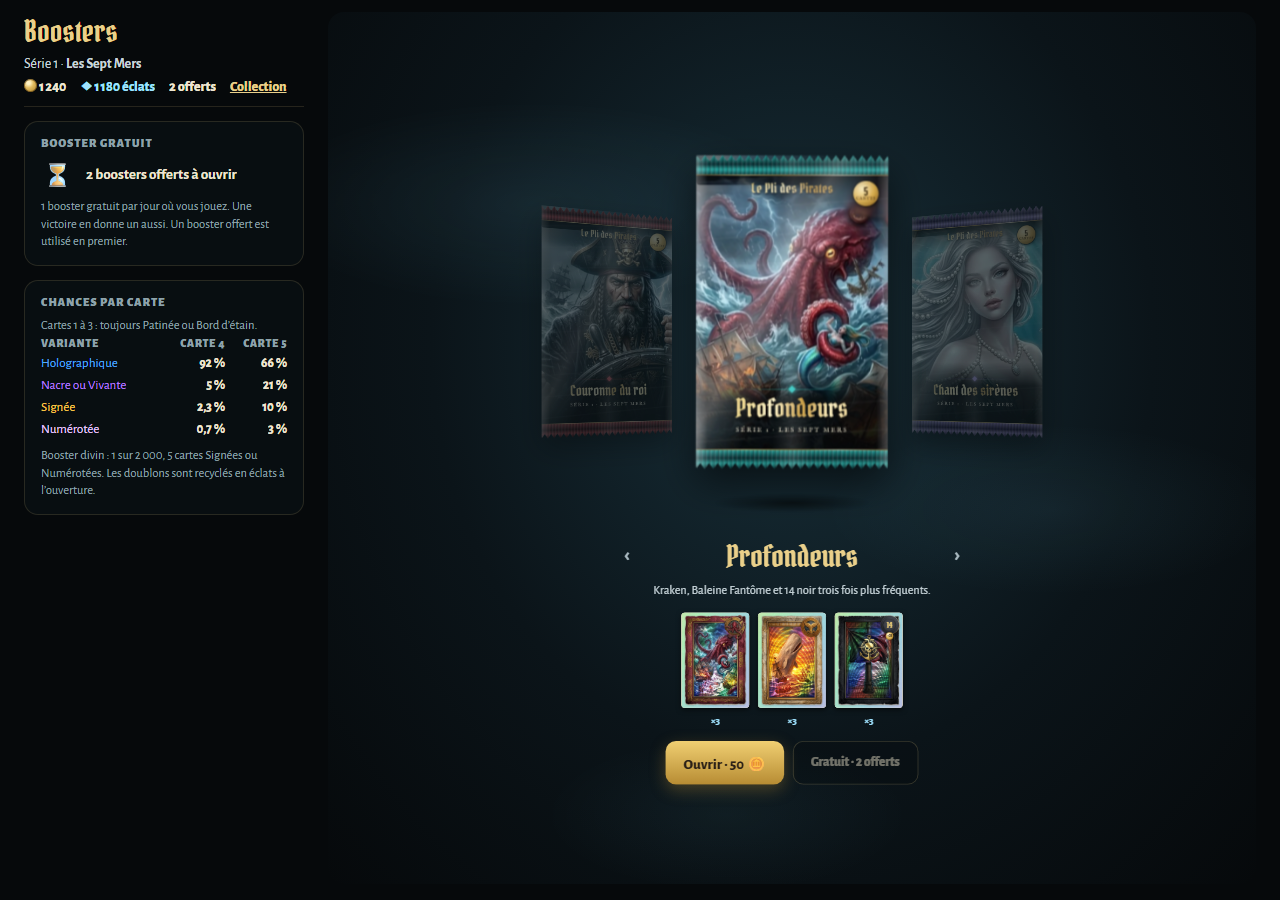
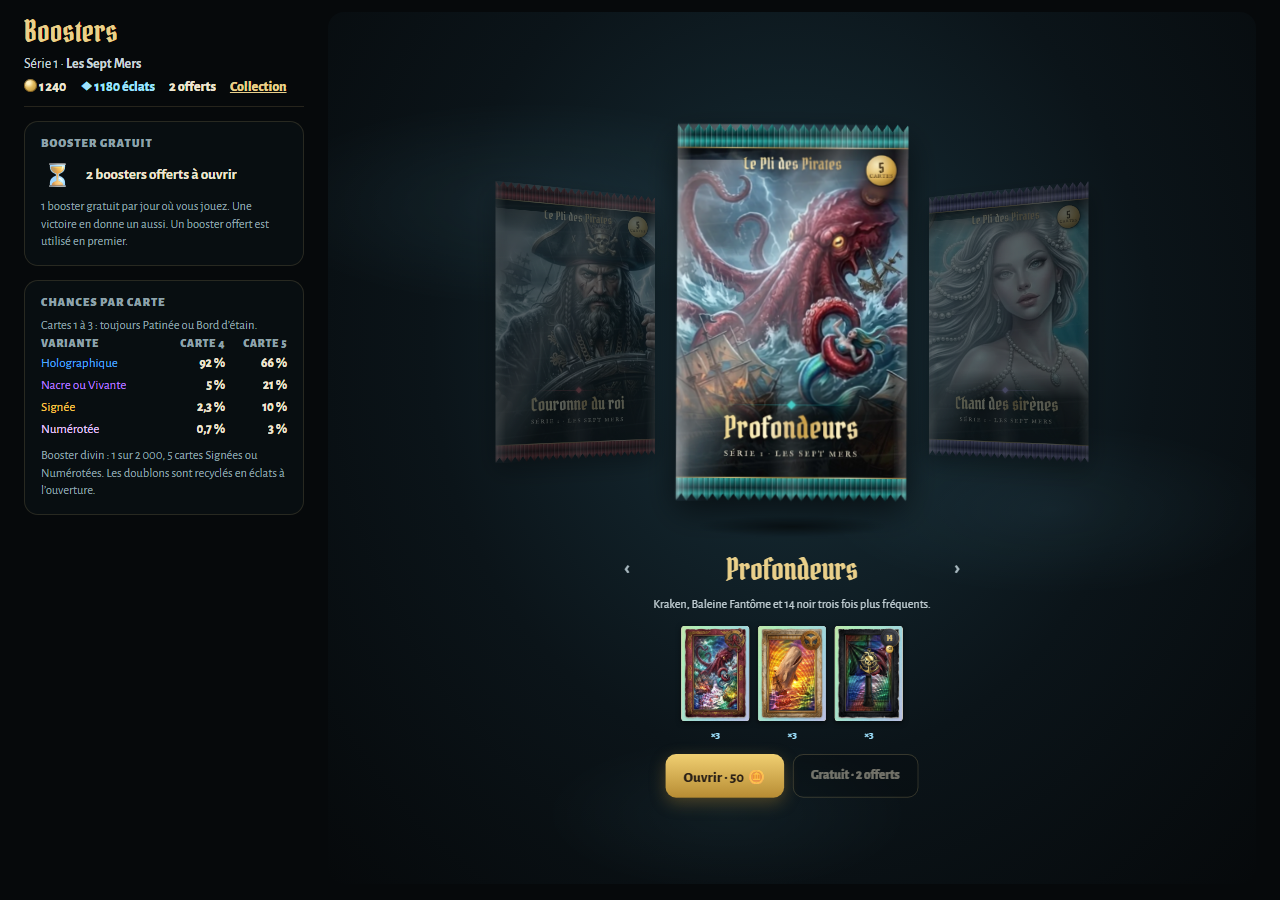
Boosters : sachets 20 % plus grands au choix, nets à l'ouverture, flash sur toute la zone
- le sachet a sa taille d'ouverture (322 × 527) et il est réduit au choix (0,82) au lieu d'être agrandi à 1,22 à la coupe : une couche 3D agrandie reste calculée à sa taille d'origine, d'où le flou
- choix : sachet 264 px au lieu de 220 (+20 %), voisins écartés de 280 px, ombre et interface du choix descendues
- outils de coupe (pointillés, lueur, étincelle, ciseaux, zone de glisser) en proportions du sachet ; progression mesurée sur le sachet
- flash d'ouverture sur toute la zone du composant (il ne couvrait que la scène : rectangle blanc sur écran large)

Changed region(s): [[0.375, 0.1244, 0.875, 0.56], [0.5, 0.5911, 0.7188, 0.9022]]

diff --git a/web/src/booster/booster-opening.js b/web/src/booster/booster-opening.js
@@ -28,29 +28,30 @@ button{font-family:inherit}
 .btn.ghost{border-color:transparent;background:transparent;color:#a8b8bf}
 .btn[disabled]{opacity:.45;cursor:default}
 .car{position:absolute;left:0;top:0;width:680px;height:620px;perspective:1100px;z-index:5}
-.pw{position:absolute;left:230px;top:70px;width:220px;height:360px;transition:transform .55s cubic-bezier(.3,1.1,.4,1),opacity .4s,filter .4s;transform-style:preserve-3d;cursor:pointer}
+/* sachet à sa taille d'ouverture (322 × 527), réduit au choix : jamais agrandi, donc toujours net (intégration au jeu) */
+.pw{position:absolute;left:179px;top:-13.5px;width:322px;height:527px;transition:transform .55s cubic-bezier(.3,1.1,.4,1),opacity .4s,filter .4s;transform-style:preserve-3d;cursor:pointer}
 .pw.off{pointer-events:none}
 .in{position:absolute;inset:0}
 .pbody,.lid{position:absolute;left:0;right:0;top:0;background-size:100% 100%;background-repeat:no-repeat;border-radius:4px}
 .pbody{bottom:0;filter:drop-shadow(0 18px 24px rgba(0,0,0,.6))}
-.lid{height:34px;z-index:2}
+.lid{height:9.44%;z-index:2}
 .foil{position:absolute;inset:0;background:linear-gradient(115deg,transparent 30%,rgba(255,255,255,.35) 45%,rgba(160,220,255,.25) 50%,transparent 65%);background-size:250% 100%;animation:foil 3.4s ease-in-out infinite;mix-blend-mode:screen;pointer-events:none}
 @keyframes foil{0%{background-position:130% 0}70%,100%{background-position:-60% 0}}
 .float{animation:fl 3.2s ease-in-out infinite}
 @keyframes fl{0%,100%{translate:0 0;rotate:-1deg}50%{translate:0 -10px;rotate:1deg}}
-.shadow{position:absolute;left:250px;top:452px;width:180px;height:22px;border-radius:50%;background:radial-gradient(rgba(0,0,0,.55),transparent 70%);transition:opacity .4s}
-.cutzone{position:absolute;left:-30px;right:-30px;top:-22px;height:80px;cursor:crosshair;touch-action:none;z-index:4}
-.dots{position:absolute;left:10px;right:10px;top:33px;border-top:2px dashed rgba(255,244,214,.85);filter:drop-shadow(0 0 3px rgba(0,0,0,.8));z-index:3}
-.cutline{position:absolute;left:0;top:31px;width:220px;height:5px;border-radius:3px;background:linear-gradient(90deg,rgba(255,255,255,.2),#fff);box-shadow:0 0 12px 3px #fff6c9,0 0 30px 6px #ffd36e;transform-origin:0 50%;transform:scaleX(var(--cut,0));z-index:3}
-.tip{position:absolute;top:22px;left:calc(var(--cut,0) * 220px);width:22px;height:22px;margin-left:-11px;border-radius:50%;background:radial-gradient(circle,#fff,rgba(255,240,190,.7) 40%,transparent 70%);animation:tw .25s linear infinite alternate;z-index:3;display:none}
+.shadow{position:absolute;left:232px;top:478px;width:216px;height:24px;border-radius:50%;background:radial-gradient(rgba(0,0,0,.55),transparent 70%);transition:opacity .4s}
+.cutzone{position:absolute;left:-44px;right:-44px;top:calc(9.44% - 82px);height:117px;cursor:crosshair;touch-action:none;z-index:4}
+.dots{position:absolute;left:15px;right:15px;top:calc(9.44% - 1.5px);border-top:2px dashed rgba(255,244,214,.85);filter:drop-shadow(0 0 3px rgba(0,0,0,.8));z-index:3}
+.cutline{position:absolute;left:0;top:calc(9.44% - 4.5px);width:100%;height:7px;border-radius:3px;background:linear-gradient(90deg,rgba(255,255,255,.2),#fff);box-shadow:0 0 12px 3px #fff6c9,0 0 30px 6px #ffd36e;transform-origin:0 50%;transform:scaleX(var(--cut,0));z-index:3}
+.tip{position:absolute;top:calc(9.44% - 17.5px);left:calc(var(--cut,0) * 100%);width:32px;height:32px;margin-left:-16px;border-radius:50%;background:radial-gradient(circle,#fff,rgba(255,240,190,.7) 40%,transparent 70%);animation:tw .25s linear infinite alternate;z-index:3;display:none}
 .cutting .tip{display:block}
 @keyframes tw{to{transform:scale(1.4)}}
-.runner{position:absolute;top:24px;left:10px;width:46px;height:18px;margin-left:-23px;border-radius:50%;background:radial-gradient(ellipse,#fff 0,rgba(255,236,170,.9) 25%,rgba(255,210,110,.35) 55%,transparent 72%);mix-blend-mode:screen;pointer-events:none;animation:run 2s cubic-bezier(.5,0,.5,1) infinite;z-index:3}
-@keyframes run{0%{left:10px;opacity:0}12%{opacity:1}80%{left:210px;opacity:1}100%{left:210px;opacity:0}}
-.chev{position:absolute;right:-30px;top:16px;font:900 22px/1 system-ui;letter-spacing:-2px;color:#ffe9b0;text-shadow:0 0 8px rgba(255,210,110,.9);animation:chv 1s ease-in-out infinite alternate;pointer-events:none;z-index:3}
+.runner{position:absolute;top:calc(9.44% - 14.5px);left:4.5%;width:67px;height:26px;margin-left:-33px;border-radius:50%;background:radial-gradient(ellipse,#fff 0,rgba(255,236,170,.9) 25%,rgba(255,210,110,.35) 55%,transparent 72%);mix-blend-mode:screen;pointer-events:none;animation:run 2s cubic-bezier(.5,0,.5,1) infinite;z-index:3}
+@keyframes run{0%{left:4.5%;opacity:0}12%{opacity:1}80%{left:95.5%;opacity:1}100%{left:95.5%;opacity:0}}
+.chev{position:absolute;right:-44px;top:calc(9.44% - 26px);font:900 32px/1 system-ui;letter-spacing:-2px;color:#ffe9b0;text-shadow:0 0 8px rgba(255,210,110,.9);animation:chv 1s ease-in-out infinite alternate;pointer-events:none;z-index:3}
 @keyframes chv{from{opacity:.35;transform:translateX(-4px)}to{opacity:1;transform:translateX(3px)}}
 .touched .runner,.touched .chev{display:none}
-.scis{position:absolute;left:-26px;top:20px;font-size:22px;color:#fff4d6;filter:drop-shadow(0 1px 2px #000);z-index:3}
+.scis{position:absolute;left:-38px;top:calc(9.44% - 20px);font-size:32px;color:#fff4d6;filter:drop-shadow(0 1px 2px #000);z-index:3}
 .opening .lid{animation:lidoff .55s cubic-bezier(.4,0,.8,.6) forwards}
 @keyframes lidoff{to{transform:translate(260px,-180px) rotate(38deg);opacity:0}}
 .opening .pbody{clip-path:polygon(0% 9.4%,4.5% 9.1%,9.1% 9.8%,13.6% 9.2%,18.2% 9.7%,22.7% 9.0%,27.3% 9.6%,31.8% 9.3%,36.4% 9.9%,40.9% 9.1%,45.5% 9.6%,50% 9.2%,54.5% 9.8%,59.1% 9.0%,63.6% 9.5%,68.2% 9.3%,72.7% 9.9%,77.3% 9.1%,81.8% 9.7%,86.4% 9.2%,90.9% 9.6%,95.5% 9.0%,100% 9.4%,100% 100%,0% 100%)}
@@ -59,12 +60,12 @@ button{font-family:inherit}
 .leak{position:absolute;left:-60px;right:-60px;top:-160px;height:220px;pointer-events:none;opacity:0;background:radial-gradient(ellipse 50% 60% at 50% 100%,rgba(255,236,190,.95),transparent 70%);mix-blend-mode:screen;z-index:3}
 .opening .leak{animation:leak 1.1s ease-out .2s forwards}
 @keyframes leak{0%{opacity:0;transform:scaleY(.2)}35%{opacity:1;transform:scaleY(1.2)}100%{opacity:0;transform:scaleY(1.6)}}
-.lrays{position:absolute;left:50%;top:34px;width:700px;height:700px;margin:-350px 0 0 -350px;border-radius:50%;opacity:0;pointer-events:none;background:repeating-conic-gradient(rgba(255,236,190,.95) 0 4deg,transparent 4deg 15deg);-webkit-mask:radial-gradient(circle,#000 5%,transparent 60%);mask:radial-gradient(circle,#000 5%,transparent 60%);mix-blend-mode:screen}
+.lrays{position:absolute;left:50%;top:9.44%;width:700px;height:700px;margin:-350px 0 0 -350px;border-radius:50%;opacity:0;pointer-events:none;background:repeating-conic-gradient(rgba(255,236,190,.95) 0 4deg,transparent 4deg 15deg);-webkit-mask:radial-gradient(circle,#000 5%,transparent 60%);mask:radial-gradient(circle,#000 5%,transparent 60%);mix-blend-mode:screen}
 .opening .lrays{animation:lr 1.3s ease-out .25s forwards}
 @keyframes lr{0%{opacity:0;transform:rotate(0) scale(.3)}30%{opacity:.9}100%{opacity:0;transform:rotate(40deg) scale(1.2)}}
 .gsp{position:absolute;top:30px;width:5px;height:5px;border-radius:50%;background:#fff6d0;box-shadow:0 0 6px 2px rgba(255,214,120,.9);opacity:0;pointer-events:none;animation:gsp 1.6s ease-out both;z-index:3}
 @keyframes gsp{0%{opacity:0;transform:translateY(0)}20%{opacity:1}100%{opacity:0;transform:translateY(-150px) translateX(12px)}}
-.flash{position:absolute;inset:-200px;background:#fff;opacity:0;pointer-events:none;z-index:30}
+.flash{position:absolute;inset:0;background:#fff;opacity:0;pointer-events:none;z-index:30}
 .flash.go{animation:fla .5s ease-out}
 @keyframes fla{0%{opacity:.75}100%{opacity:0}}
 .stk{position:absolute;left:200px;top:90px;width:280px;height:398px;z-index:9}
@@ -208,12 +209,12 @@ class BoosterOpening extends HTMLElement {
     const car = h('div', 'car'); this.car = car; this.pws = [];
     this.packs.forEach((p, i) => {
       const pw = h('div', 'pw'), inn = h('div', 'in');
-      inn.innerHTML = `<div class="lrays"></div><div class="pbody" style="background-image:url(${p.sachet})"><div class="foil"></div></div><div class="lid" style="background-image:url(${p.sachet});background-size:100% 360px"></div><div class="leak"></div>`;
+      inn.innerHTML = `<div class="lrays"></div><div class="pbody" style="background-image:url(${p.sachet})"><div class="foil"></div></div><div class="lid" style="background-image:url(${p.sachet});background-size:100% 527px"></div><div class="leak"></div>`;
       pw.appendChild(inn); pw.addEventListener('click', () => this.pickPack(i)); car.appendChild(pw); this.pws.push(pw);
     });
     car.appendChild(h('div', 'shadow'));
     this.fit.appendChild(car);
-    const ui = h('div', 'ui fi'); ui.style.top = '500px'; this.uiChoose = ui; this.fit.appendChild(ui);
+    const ui = h('div', 'ui fi'); ui.style.top = '515px'; this.uiChoose = ui; this.fit.appendChild(ui);
     this.placePacks(); this.fillChooseUI();
     this.addSwipe(car);
   }
@@ -222,8 +223,9 @@ class BoosterOpening extends HTMLElement {
     this.pws.forEach((pw, i) => {
       let o = ((i - this.sel) % n + n) % n; if (o === n - 1 && n > 1) o = -1; if (o > 1) o = 2;
       const cur = o === 0, inn = pw.firstChild;
-      pw.style.transform = focus ? (cur ? 'translateY(40px) scale(1.22)' : `translateX(${o * 420}px) scale(.6)`)
-        : `translateX(${o * 240}px) translateZ(${cur ? 0 : -160}px) rotateY(${o * -32}deg) scale(${cur ? 1 : .82})`;
+      // échelles divisées par 1,22 (taille native = taille d'ouverture) ; voisins écartés de 280 px pour des sachets 20 % plus grands
+      pw.style.transform = focus ? (cur ? 'translateY(40px) scale(1)' : `translateX(${o * 420}px) scale(.49)`)
+        : `translateX(${o * 280}px) translateZ(${cur ? 0 : -160}px) rotateY(${o * -32}deg) scale(${cur ? .82 : .672})`;
       pw.style.opacity = focus && !cur ? 0 : cur ? 1 : Math.abs(o) > 1 ? 0 : .55;
       pw.style.filter = cur ? 'none' : 'brightness(.6) saturate(.8)'; pw.style.zIndex = cur ? 3 : 1;
       pw.classList.toggle('off', focus && !cur);
@@ -255,7 +257,7 @@ class BoosterOpening extends HTMLElement {
     cut.style.cssText = 'position:absolute;inset:0;z-index:4'; inn.appendChild(cut); this.cutEl = cut;
     const zone = cut.querySelector('.cutzone'); let prog = 0, active = false, step = 0, raf = 0;
     const setP = p => { prog = p; if (!raf) raf = requestAnimationFrame(() => { raf = 0; cut.style.setProperty('--cut', prog.toFixed(3)); }); const s = Math.floor(p * 10); if (s > step) { step = s; this.haptics('light'); } };
-    const pos = e => { const r = zone.getBoundingClientRect(); return (e.clientX - r.left - 30 * r.width / 280) / (220 * r.width / 280); };
+    const pos = e => { const r = inn.getBoundingClientRect(); return (e.clientX - r.left) / r.width; };
     zone.addEventListener('pointerdown', e => { if (this.phase !== 'focus') return; const p = pos(e); if (p > .35) return; zone.setPointerCapture(e.pointerId); active = true; cut.classList.add('cutting', 'touched'); setP(Math.max(0, p)); this.sfx('cut'); });
     zone.addEventListener('pointermove', e => { if (!active) return; const p = Math.max(prog, Math.min(1, pos(e))); setP(p); if (p >= .92) { active = false; this.doCut(); } });
     const up = () => { if (!active) return; active = false; cut.classList.remove('cutting'); cut.style.transition = 'none'; setP(0); step = 0; };
@@ -284,7 +286,7 @@ class BoosterOpening extends HTMLElement {
     this.top = 0; this.buildStack(true);
     this.later(1950, () => { this.car.remove(); this.stk.classList.remove('rise'); this.stk.style.zIndex = ''; this.phase = 'stack'; this.showTop(true); });
   }
-  flash() { if (this.hasAttribute('reduce')) return; const f = h('div', 'flash'); this.fit.appendChild(f); void f.offsetWidth; f.classList.add('go'); setTimeout(() => f.remove(), 600); }
+  flash() { if (this.hasAttribute('reduce')) return; const f = h('div', 'flash'); this.root.appendChild(f); void f.offsetWidth; f.classList.add('go'); setTimeout(() => f.remove(), 600); }
 
   // ---------- 4. pile ----------
   buildStack(rising) {
